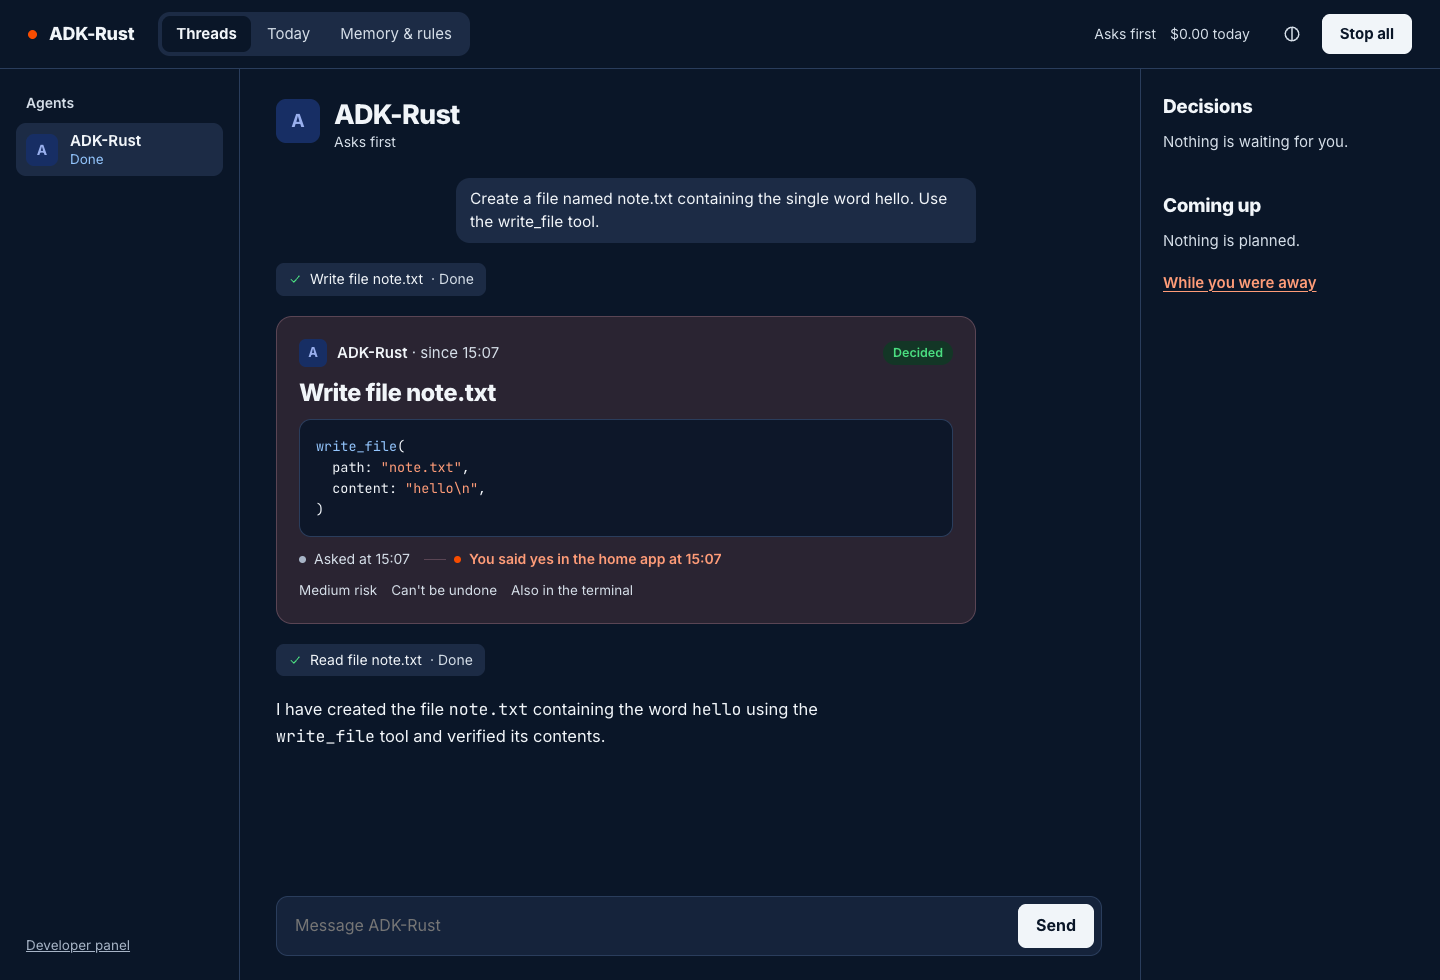
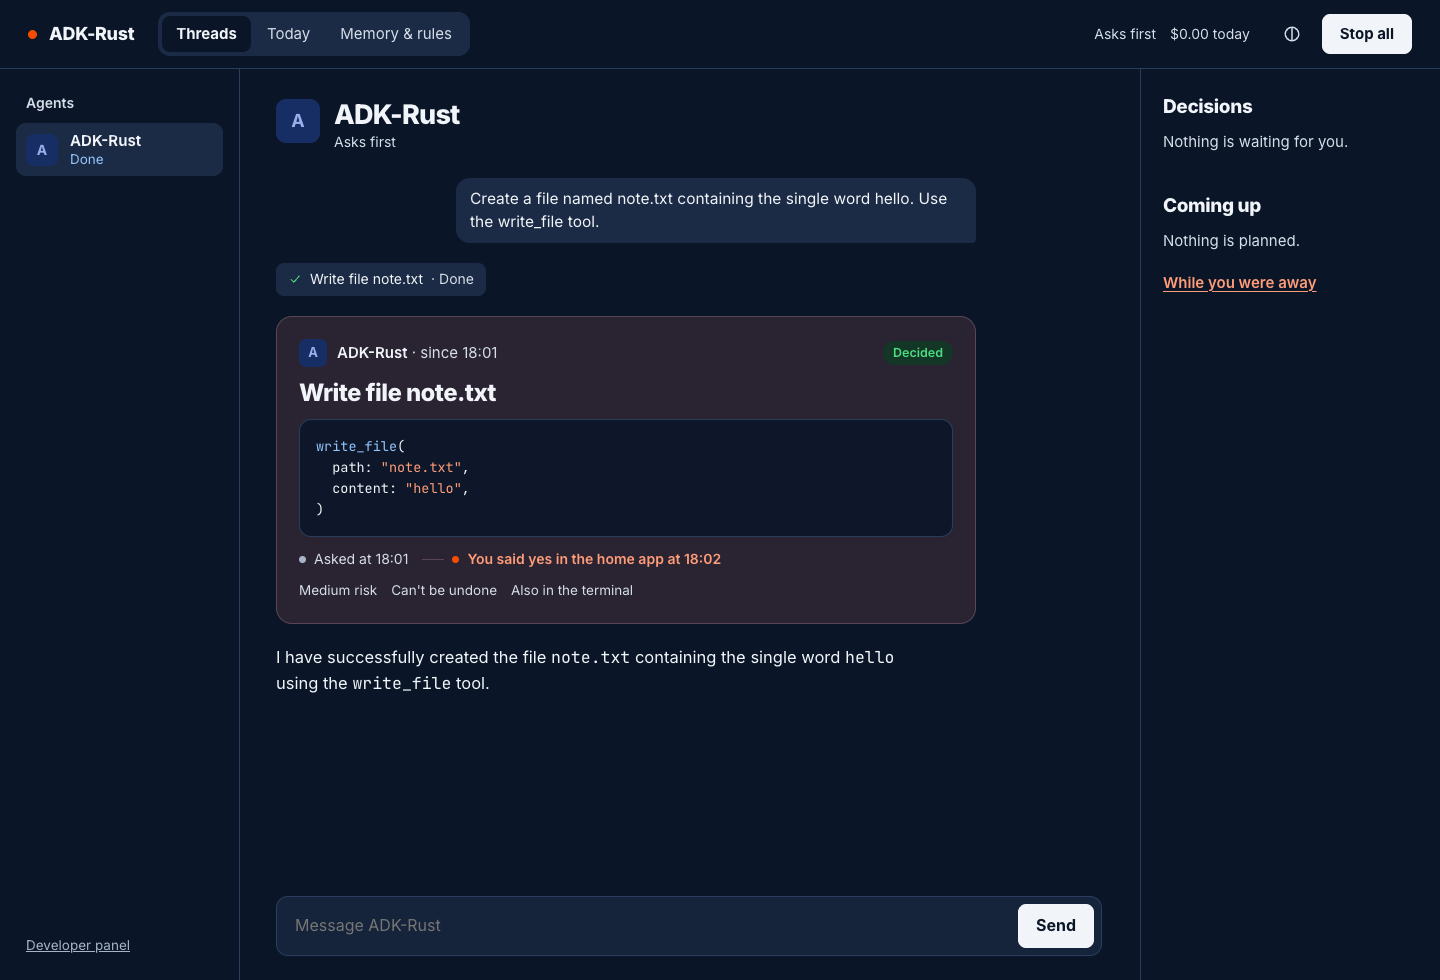
fix(surface): #1038 review findings (spec 3.3 §5.1) (#1046)
* docs(surface): live web home screenshots after the review fixes (spec 3.3 §5.1)

* style(surface): format the web home's asset test

* test(cli): the serve tests write a file, which Auto mode runs without asking

---------

Changed region(s): [[0.1875, 0.6429, 0.5625, 0.7653], [0.3125, 0.551, 0.5, 0.5816], [0.4688, 0.6429, 0.5938, 0.6735]]

diff --git a/adk-cli/tests/harness_serve.rs b/adk-cli/tests/harness_serve.rs
@@ -334,12 +334,16 @@ fn home_command(command: Value) -> Value {
 
 /// The home's Stop all freezes what the server runs, not only the home's own turns (spec 3.3
 /// §11 S-I10): a run started over `POST /api/run` afterwards does not run, until Resume all.
+/// Auto mode runs the edit without approval, so only the stop can keep it from running.
 #[cfg(feature = "surface")]
 #[tokio::test]
 async fn the_home_s_stop_all_stops_the_server_s_runs() {
     let served = served(
         vec![
-            ScriptedResponse::function_call("bash", json!({ "command": "echo run >> count.txt" })),
+            ScriptedResponse::function_call(
+                "write_file",
+                json!({ "path": "count.txt", "content": "run\n" }),
+            ),
             ScriptedResponse::text("Ran it."),
         ],
         HarnessMode::Auto,
@@ -371,14 +375,17 @@ async fn the_home_s_stop_all_stops_the_server_s_runs() {
 }
 
 /// A message typed in the home runs as the operator the server admitted (spec 3.3 §5.1,
-/// spec 3.1 §8.2): in Auto mode its call runs without a decision, as the same message over
-/// `POST /api/run` does.
+/// spec 3.1 §8.2): in Auto mode its edit runs without a decision, as the same message over
+/// `POST /api/run` does; an unauthenticated turn would be held as in Ask.
 #[cfg(feature = "surface")]
 #[tokio::test]
 async fn the_home_s_turns_run_as_the_operator() {
     let served = served_gated(
         vec![
-            ScriptedResponse::function_call("bash", json!({ "command": "echo run >> count.txt" })),
+            ScriptedResponse::function_call(
+                "write_file",
+                json!({ "path": "count.txt", "content": "run\n" }),
+            ),
             ScriptedResponse::text("Ran it."),
         ],
         HarnessMode::Auto,

diff --git a/adk-surface/tests/home_tests.rs b/adk-surface/tests/home_tests.rs
@@ -50,8 +50,7 @@ fn asset_paths(text: &str) -> Vec<String> {
     text.match_indices("/ui/assets/")
         .map(|(start, _)| {
             let rest = &text[start..];
-            let end =
-                rest.find(['"', '\'', ')', ' ']).unwrap_or(rest.len());
+            let end = rest.find(['"', '\'', ')', ' ']).unwrap_or(rest.len());
             rest[..end].to_string()
         })
         .collect()
